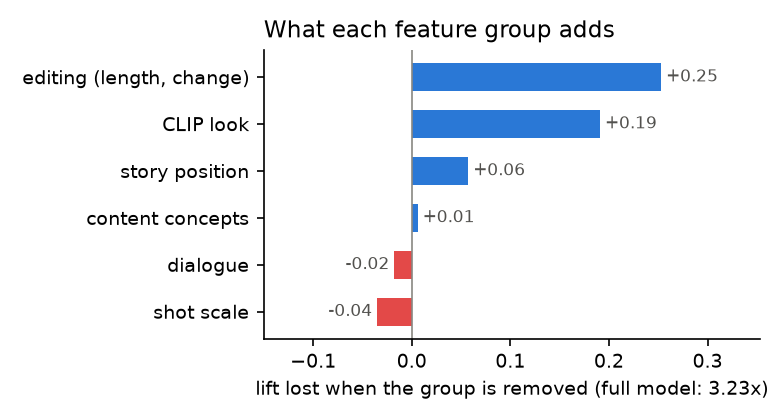
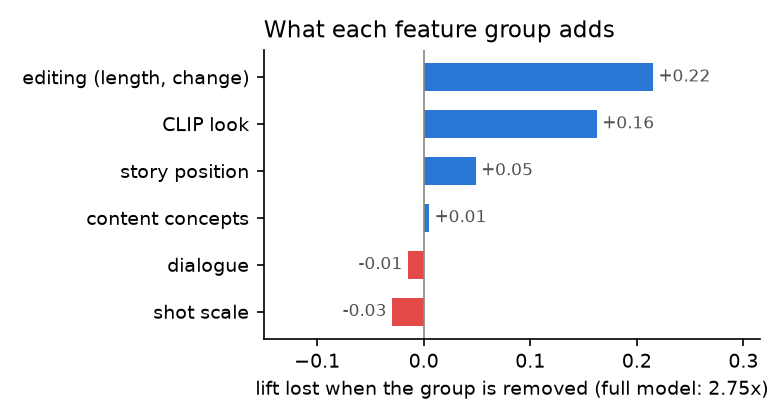
Lift over the films' mean positive rate (random = 1x); update headline numbers and docs

diff --git a/src/trailercut/model_eval.py b/src/trailercut/model_eval.py
@@ -8,11 +8,13 @@ with k=3 a random shot is ~7x more likely to be "near" a used shot too.
 Uses the out-of-fold scores saved by model.py, so nothing is retrained.
 
 Metrics per model and k (k=0 is the exact-shot score from model.py)
-  base_rate   share of shots within ±k of a used shot (what random scores as precision)
+  base_rate   share of shots within ±k of a used shot, pooled over shots
   ap          average precision against the ±k label, pooled
   prec_at_k   per film, precision of the top-m shots (m = number of used shots), averaged
   recall_at_k per film, share of used shots with a top-m shot within ±k, averaged
-  lift        prec_at_k / base_rate
+  lift        prec_at_k / the films' mean ±k positive rate, so random scores 1x. (Dividing by the
+              pooled base_rate instead, as before 2026-11-06, gave random 1.18x: short films have
+              higher positive rates and count once each in prec_at_k.)
 
 Writes data/features/model_eval.json (committed)
 
@@ -44,20 +46,27 @@ def film_scores(y, s, k):
     return y_tol[top].mean(), hit.mean()
 
 
+def film_base_rate(df):
+    """Mean positive rate over films with a used shot: the lift denominator."""
+    r = df.groupby("imdb_id").in_trailer.mean()
+    return float(r[r > 0].mean())
+
+
 def evaluate(preds, model, k):
-    y_tol, prec, rec = [], [], []
+    y_tol, prec, rec, film_base = [], [], [], []
     for _, g in preds.groupby("imdb_id", sort=False):
         y = g.in_trailer.values
         y_tol.append(near(y, k))
         if y.any():
             p, r = film_scores(y, g[model].values, k)
+            film_base.append(y_tol[-1].mean())
             prec.append(p)
             rec.append(r)
     y_tol = np.concatenate(y_tol)
     base = float(y_tol.mean())
     return dict(base_rate=base, ap=float(average_precision_score(y_tol, preds[model])),
                 prec_at_k=float(np.mean(prec)), recall_at_k=float(np.mean(rec)),
-                lift=float(np.mean(prec) / base))
+                lift=float(np.mean(prec) / np.mean(film_base)))
 
 
 def main():

diff --git a/src/trailercut/error_slices.py b/src/trailercut/error_slices.py
@@ -1,8 +1,7 @@
 """Where the RQ1 model misses: lift per slice of films (genre, decade, film and trailer size, subtitles).
 
-Lift in a slice = mean per-film precision at trailer length / the films' mean positive rate. Unlike
-model_eval.py (which pools the positive rate over shots, so random gets 1.18x), random scores 1x here
-in every slice; the overall figure equals model_eval's lift divided by random's. Each slice is compared with the rest of the films:
+Lift in a slice = mean per-film precision at trailer length / the films' mean positive rate, the same
+measure as model_eval.py at k=0 (random scores 1x in every slice). Each slice is compared with the rest of the films:
   ci        95% bootstrap interval over films (2,000 resamples)
   p         permutation test on the lift difference, films shuffled between slice and rest
   q         Benjamini-Hochberg over all slices; q < 0.05 = a real gap, not noise
@@ -130,9 +129,7 @@ def main():
     films["subs"] = films.imdb_id.map(subs).fillna(False).astype(bool)
 
     rng = np.random.default_rng(0)
-    # equal film weights: random then scores 1x in every slice. model_eval pools the positive rate over
-    # shots instead, which gives random 1.18x overall; this lift is that headline divided by random's
-    w = np.ones(len(films))
+    w = np.ones(len(films))  # films count equally, as in model_eval
     prec, base, rprec = films.prec.values, films.base.values, rand.set_index("imdb_id").loc[films.imdb_id].prec.values
     rows = []
     for (kind, name), mask in slices(films).items():

diff --git a/src/trailercut/model_figures.py b/src/trailercut/model_figures.py
@@ -16,6 +16,7 @@ import numpy as np
 import pandas as pd
 from sklearn.metrics import precision_recall_curve
 
+from .model_eval import film_base_rate
 from .paths import FEATURES, FIGURES
 
 plt.rcParams.update({"figure.dpi": 150, "axes.spines.top": False, "axes.spines.right": False, "font.size": 9})
@@ -48,8 +49,7 @@ def pr_curves(preds):
     plt.close(fig)
 
 
-def ablation(report):
-    rate = report["positive_rate"]
+def ablation(report, rate):
     full = report["models"]["full"]["r_prec"] / rate
     drop = {g: d["r_prec"] / rate for g, d in report["ablation_drop"].items()}
     order = sorted(drop, key=drop.get)
@@ -125,7 +125,7 @@ def main():
     preds = pd.read_parquet(FEATURES / "model_preds.parquet")
     shapes()
     pr_curves(preds)
-    ablation(json.loads((FEATURES / "model_report.json").read_text()))
+    ablation(json.loads((FEATURES / "model_report.json").read_text()), film_base_rate(preds))
     tolerance(json.loads((FEATURES / "model_eval.json").read_text()))
     print("figures/model_pr.png, model_ablation.png, model_tolerance.png")
 

diff --git a/src/trailercut/model_ebm.py b/src/trailercut/model_ebm.py
@@ -25,6 +25,7 @@ from sklearn.model_selection import GroupKFold
 from tqdm import tqdm
 
 from .model import READABLE, feats, load, metrics
+from .model_eval import film_base_rate
 from .paths import FEATURES, FIGURES
 
 PARAMS = dict(interactions=0, max_bins=64, outer_bags=4, n_jobs=8, random_state=0)
@@ -56,7 +57,7 @@ def main():
         p[te] = m.predict_proba(df.iloc[te][cols])[:, 1]
     scores["ebm"] = p
     res = metrics(scores, "ebm")
-    res["lift"] = res["r_prec"] / float(y.mean())
+    res["lift"] = res["r_prec"] / film_base_rate(df)
 
     m = ExplainableBoostingClassifier(**params).fit(df[cols], y)
     g = m.explain_global().data()

diff --git a/docs/results.md b/docs/results.md
@@ -3,6 +3,44 @@
 Numbers as of each run, newest first. Source files in brackets. Old entries stay, so we can see how
 numbers moved as the data and methods changed.
 
+## 2026-11-06: all 1,082 films, lift now relative to random, error slices
+
+RQ1 rerun on 1,082 films with missing subtitles coded as missing (not "no dialogue"). **Lift changed
+definition:** precision at trailer length over the films' *mean* positive rate, so random scores 1.00x.
+Entries below divide by the positive rate pooled over shots, which gives random about 1.1x to 1.2x
+(short films have higher positive rates and each film counts once); divide an old lift by its random
+row to compare.
+
+**RQ1** [`model_report.json`, `model_eval.json`]: 1,570,548 film shots, 1,082 films, 4.6% positive.
+
+| model | AP | precision at trailer length | lift k=0 | lift ±1 | lift ±3 | lift ±5 |
+|---|---|---|---|---|---|---|
+| random | 0.046 | 0.054 | 1.00 | 1.01 | 1.01 | 1.01 |
+| position only | 0.053 | 0.072 | 1.34 | 1.27 | 1.21 | 1.18 |
+| length only | 0.065 | 0.093 | 1.73 | 1.36 | 1.21 | 1.14 |
+| CLIP only | 0.080 | 0.127 | 2.35 | 1.73 | 1.45 | 1.33 |
+| readable | 0.091 | 0.139 | 2.59 | 1.85 | 1.53 | 1.38 |
+| full | 0.099 | 0.148 | 2.75 | 1.92 | 1.56 | 1.41 |
+
+Base rate (pooled share of shots within ±k of a used shot): 0.046, 0.117, 0.228, 0.316. Precision at
+trailer length lost when one group is dropped: editing 0.012, CLIP 0.009, position 0.003, others ≤ 0.
+SHAP mean |value| by group: CLIP 0.25, editing 0.23, position 0.19, content 0.08, dialogue 0.06, scale 0.04.
+
+**EBM vs LightGBM** [`model_ebm.json`, `model_ebm_smooth.json`, `model_ebm_compare.json`]: lift 2.36
+vs 2.59 on the same readable features; with heavy smoothing 2.31, and the 10 most important curves
+keep their shape (Spearman 0.97 to 1.0, same direction).
+
+**Error slices** [`error_slices.json`, `figures/error_slices.png`]: lift per slice of films vs the
+rest, bootstrap intervals, permutation tests with BH correction.
+- film length matters most: 2.23x for the quarter with fewest shots, 3.70x for the most
+- Action, Adventure, Fantasy, Sci-Fi above; Drama, Comedy, Romance below
+- at equal film length the action edge disappears (most-shots quarter: 3.69x vs 3.72x), the comedy gap stays (2.74x vs 3.90x)
+- films without subtitles 2.42x vs 2.90x, but mostly because they are short films; the gap shows in the CLIP-only model too
+- decade and trailer size: within noise
+
+Read: the model works best on long, fast-cut films and struggles with comedy and romance, whose
+trailer shots (jokes, looks, lines) look like any other shot to CLIP.
+
 ## 2026-10-30: new films, splits applied, rebuild on 968 trailers
 
 The overnight batch for the films new to the dataset, the CLIP splits applied, then `align`, `audio`

diff --git a/docs/limitations.md b/docs/limitations.md
@@ -92,11 +92,12 @@ What the current data and methods can't tell us, so we don't overclaim in the re
 
 ## Analysis
 
-- **The RQ1 signal is weak.** The full model's AP is 0.083 against 0.042 for random, and at trailer
-  length about 13 in 100 top-ranked shots are in the trailer (lift 3.15x). It ranks better than chance,
-  not well enough to say which shots an editor will pick. Readable features carry most of what the
-  model finds (AP 0.076 vs 0.083 with CLIP). Allowing ±k shots of slack doesn't rescue it (lift 1.70x
-  at ±3), and extra features or a ranker don't move it (`model_tune.json`).
+- **The RQ1 signal is weak.** The full model's AP is 0.099 against 0.046 for random, and at trailer
+  length about 15 in 100 top-ranked shots are in the trailer (lift 2.75x over random). It ranks better
+  than chance, not well enough to say which shots an editor will pick. Readable features carry most of
+  what the model finds (lift 2.59x). Allowing ±k shots of slack doesn't rescue it (lift 1.56x at ±3), and extra features or a ranker don't move it (`model_tune.json`).
+- **Uneven across films.** Lift is 2.2x on the quarter of films with the fewest shots and 3.7x on the
+  most; comedy and romance stay below the rest even at equal film length (`error_slices.json`).
 - **Clusters are weakly separated** (silhouette 0.10 to 0.31). We report them as reproducible splits,
   not as distinct trailer types.
 - **Correlated features share credit.** CLIP and the content concepts (both from the same embedding), and story position and act, overlap, so SHAP and EBM split their effect between them; read a group's attribution together with its partner, and as association, not cause.

diff --git a/docs/data_dictionary.md b/docs/data_dictionary.md
@@ -187,7 +187,8 @@ model (`random`, `position_only`, `length_only`, `clip_only`, `readable`, `full`
 (share of shots within ±k of a used shot; what random scores as precision), `ap` (pooled AP against
 the ±k label), `prec_at_k` (per film, share of the top-m shots within ±k of a used shot, m = shots the
 trailer used, averaged over films), `recall_at_k` (per film, share of used shots with a top-m shot
-within ±k, averaged) and `lift` (`prec_at_k / base_rate`). `k0` is the exact-shot score.
+within ±k, averaged) and `lift` (`prec_at_k` over the films' mean ±k positive rate, so random is 1x;
+before 2026-11-06 it was over the pooled `base_rate`, which gave random ~1.18x). `k0` is the exact-shot score.
 
 **`model_tune.json`** (C): `n_shots`, `n_films`, `positive_rate`, `variants` (per variant: `ap`,
 `ap_film`, `r_prec`, `ap_lenadj`, and `lift` = `r_prec / positive_rate`). Variants: `random`, `full`,
@@ -196,7 +197,7 @@ learning`, `rank, smaller trees`. The committed file was computed at threshold 0
 re-alignment at 0.535.
 
 **`model_ebm.json`** (C, `model_ebm`): `metrics` (out of fold, same folds as `model.py`: `ap`, `ap_film`,
-`r_prec`, `ap_lenadj`, `lift` = `r_prec` over the positive rate), `lightgbm_readable_lift` (the
+`r_prec`, `ap_lenadj`, `lift` = `r_prec` over the films' mean positive rate), `lightgbm_readable_lift` (the
 `readable` lift at k0 from `model_eval.json`), `curves` (per readable feature, from a fit on all films:
 `x` bin edges, `score` per bin in log-odds, `importance` = mean absolute score).
 

diff --git a/docs/experiments.md b/docs/experiments.md
@@ -48,3 +48,4 @@ tries them again by accident. The reasoning behind what we kept is in `design.md
 | 2026-10-30 | Re-judge the 117 rejected new films under the beats-other-films rule (`--retry`), then up to 2 more downloads per still-missing film | 56 accepted on re-judging, 34 more from the extra downloads, 2 from late downloads: 765 of 807 new films have a trailer | yes; 26 out of candidates, 16 with untried ones |
 | 2026-10-30 | CLIP split pass applied on every trailer with proposals (`--max-sim 1.0`), after the TransNetV2 re-split of the new trailers | 2,857 cuts in 701 trailers (`split_applied.csv`); glued shots 3.4% (core, before) to 1.1% of 84,288 trailer shots (`alignment_diagnostics.json`); label cutoff and P/R unchanged (0.515, 0.87, 0.92) | yes; part of the drop is by construction |
 | 2026-10-30 | Cache TransNetV2's per-frame cut probabilities (`cache/transnet/`), filled by `trailer_prep --probs-only` with 4 workers | re-split of a core-sized batch in 21 min instead of about 4 h; 4 workers fill the cache about 4x faster than `resplit`'s single process | yes |
+| 2026-11-06 | Lift over the films' mean positive rate instead of the pooled one | random goes from 1.18x to 1.00x; full 3.23x → 2.75x, readable 3.04x → 2.59x, EBM 2.77x → 2.36x; order unchanged | yes, the old denominator flattered every model |

diff --git a/docs/glossary.md b/docs/glossary.md
@@ -23,7 +23,7 @@
 | AP / PR-AUC | average precision, area under the precision/recall curve; used because only about 4% of shots are positive |
 | precision at trailer length | per film, precision of the top-k shots where k is how many shots the trailer used (R-precision) |
 | tolerance (±k shots) | in `model_eval`, a top-ranked film shot counts as a hit if a used shot is within k film shots of it; random gets the same tolerance |
-| lift | a rate over the rate you'd get by chance. Model: precision at trailer length over the base rate, at the same tolerance. RQ1 page: pick rate of a kind of shot over the average shot's pick rate (1x = no difference) |
+| lift | a rate over the rate you'd get by chance. Model: precision at trailer length over the films' mean base rate, at the same tolerance (random = 1x). RQ1 page: pick rate of a kind of shot over the average shot's pick rate (1x = no difference) |
 | edge shots | film shots in the first and last 1% of a film (studio logos, credits); left out of the RQ1 model and page |
 | context features | `distinct` (unlike the film's average shot), `novelty` (unlike the 2 shots on each side), `recurrence` (the look comes back more than 10 shots away); from CLIP |
 | relative features | `rel_*`: a feature's percentile rank within its own film |

diff --git a/docs/design.md b/docs/design.md
@@ -386,6 +386,9 @@ outermost bins hold a handful of shots and swing. It takes ~30 min, so it is an 
 mixes films with different base rates (trailer length vs film shot count), so films with many used
 shots dominate it. Per-film precision at trailer length asks each film the editor's question, and lift
 makes it comparable across tolerances. Pooled AP stays in the tables as a secondary number.
+The lift denominator is the films' mean positive rate, not the rate pooled over shots: precision is
+averaged per film, so the base has to be too, or random scores 1.18x (short films have high positive
+rates and count once each). Changed 2026-11-06; older logged lifts use the pooled rate.
 
 ## RQ2 clustering (`cluster.py`)
 

diff --git a/docs/course_learnings.md b/docs/course_learnings.md
@@ -143,7 +143,7 @@ For us
 
 For us
 - ✅ Every method choice has its "why" in design.md and viz_design.md.
-- ⬜ Abstract numbers (lift 3.30× on 1,058 films; alignment P 0.87 / R 0.92), contribution bullets,
+- ⬜ Abstract numbers (lift 2.75× over random on 1,082 films; alignment P 0.87 / R 0.92), contribution bullets,
   design goals mapped to views, annotated figures (`?t=` links make Trailer View shots reproducible).
 
 ---
